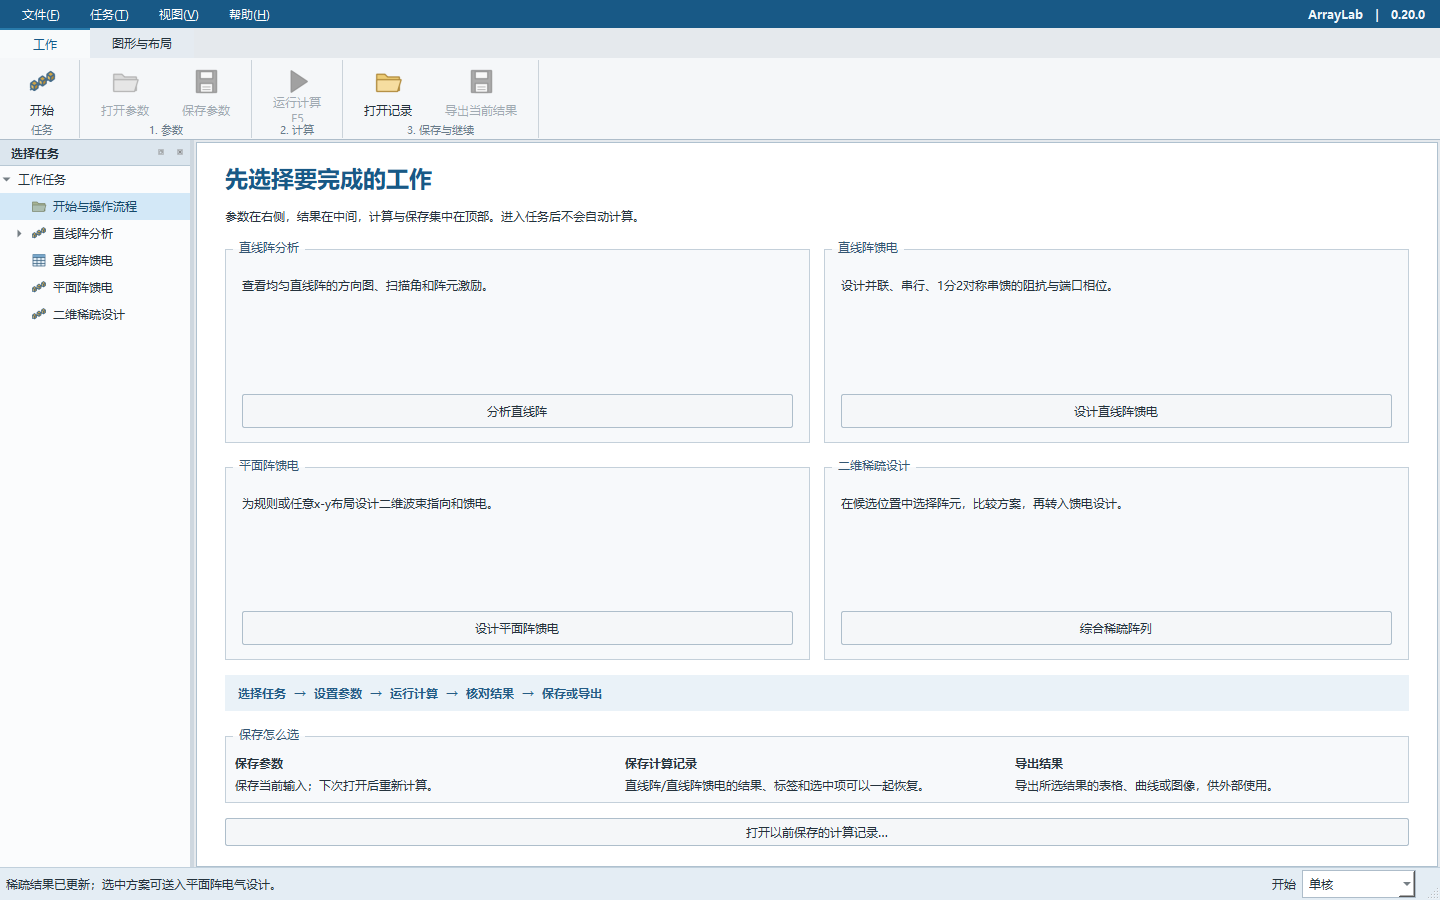
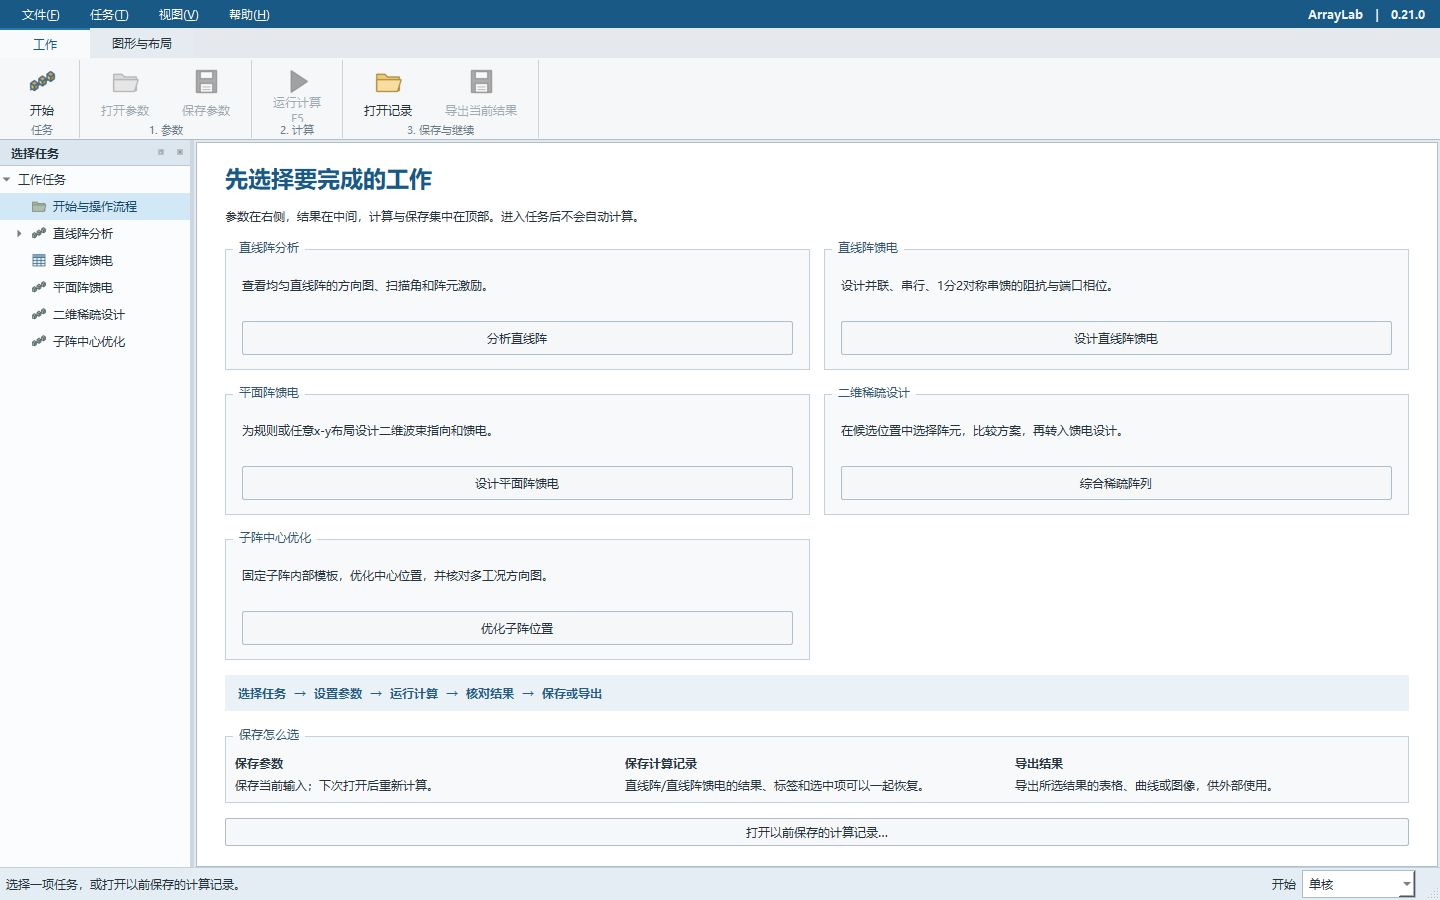
Prepare ArrayLab 0.21.0 release

diff --git a/arraylab/__init__.py b/arraylab/__init__.py
@@ -1,3 +1,3 @@
 """ArrayLab: a deliberately scoped antenna-array workbench."""
 
-__version__ = "0.21.0.dev0"
+__version__ = "0.21.0"

diff --git a/README.md b/README.md
@@ -1,12 +1,12 @@
 # ArrayLab 阵列分析
 
-用于直线阵、平面阵及理想馈电网络电气分析的开源Python工具，提供Qt桌面工作台与无头命令行。当前正式版本0.20.0，原创源码采用MIT许可。[下载正式版](https://github.com/KaysinBIT/arraylab/releases/tag/v0.20.0) · [发行说明](docs/releases/0.20.0.md)。
+用于直线阵、平面阵及理想馈电网络电气分析的开源Python工具，提供Qt桌面工作台与无头命令行。当前正式版本0.21.0，原创源码采用MIT许可。[下载正式版](https://github.com/KaysinBIT/arraylab/releases/tag/v0.21.0) · [发行说明](docs/releases/0.21.0.md)。
 
-当前源码进入 **0.21.0.dev0 开发版**：新增线阵及线阵馈电三维方向图、图下主要指标，以及固定内部模板的连续子阵中心优化。已有正式版0.20.0不包含这些新增功能；开发版与正式版文件分别保留。[方向图与指标](docs/pattern-metrics.md) · [子阵中心优化](docs/subarray-centers.md)。
+**0.21.0 正式版**新增线阵及线阵馈电三维方向图、图下主要指标，以及固定内部模板的连续子阵中心优化。[方向图与指标](docs/pattern-metrics.md) · [子阵中心优化](docs/subarray-centers.md)。
 
-本版按操作顺序组织界面：启动先选任务，右侧设置当前任务的参数，中间核对结果，顶部完成计算、保存和导出。直线阵分析、直线阵馈电、平面阵馈电、二维稀疏设计各有独立入口，进入任务不会自动计算。首次使用请从[五步快速上手](docs/quickstart.md)开始。
+本版按操作顺序组织界面：启动先选任务，右侧设置当前任务的参数，中间核对结果，顶部完成计算、保存和导出。直线阵分析、直线阵馈电、平面阵馈电、二维稀疏设计、子阵中心优化各有独立入口，进入任务不会自动计算。首次使用请从[五步快速上手](docs/quickstart.md)开始。
 
-直线阵与直线阵馈电现在支持保存并重新打开完整计算记录，恢复曲线、标签、选中项及已有结果，不重新计算；也能打开旧版馈电比较文件。保存参数、保存记录、导出结果各有明确入口，详见[计算记录与文件选择](docs/calculation-history.md)。平面阵和二维稀疏设计尚不支持这项完整多次历史恢复。
+直线阵与直线阵馈电现在支持保存并重新打开完整计算记录，恢复曲线、标签、选中项及已有结果，不重新计算；也能打开旧版馈电比较文件。保存参数、保存记录、导出结果各有明确入口，详见[计算记录与文件选择](docs/calculation-history.md)。平面阵、二维稀疏设计和子阵中心优化尚不支持这项完整多次历史恢复。
 
 原有有界多核及无头功能保留：扫描点、平面阵三组方向图、稀疏方案复核可并行。右下角可选自动（最多4路）、单核或2–8路；小任务自动串行。无头使用`--workers`，详见[多核范围与资源控制](docs/multicore.md)。物理尺寸和误差统计继续暂缓。
 
@@ -18,7 +18,7 @@
 
 ## 启动
 
-Windows用户可从[GitHub Release](https://github.com/KaysinBIT/arraylab/releases/tag/v0.20.0)下载`ArrayLab-0.20.0-windows-x64.zip`，完整解压后运行`ArrayLab.exe`，无需安装Python；脚本使用同目录的`ArrayLab-cli.exe`。移动时保留整个目录及`_internal`。
+Windows用户可从[GitHub Release](https://github.com/KaysinBIT/arraylab/releases/tag/v0.21.0)下载`ArrayLab-0.21.0-windows-x64.zip`，完整解压后运行`ArrayLab.exe`，无需安装Python；脚本使用同目录的`ArrayLab-cli.exe`。移动时保留整个目录及`_internal`。
 
 源码用户可在Windows PowerShell中创建环境并启动桌面版：
 
@@ -32,7 +32,7 @@ python -m venv .venv
 
 已记录的本地构建环境为Python 3.14.2 x64；`requirements-lock.txt`保留其依赖版本。其他版本的兼容性以对应测试结果为准。
 
-当前源码构建后的桌面入口为`dist/ArrayLab-0.21.0.dev0/ArrayLab.exe`，无头入口为同目录的`ArrayLab-cli.exe`。项目根目录的“启动 ArrayLab.cmd”也指向本轮开发版。具体系统和验证边界见[验证记录](docs/validation.md)。
+当前源码构建后的桌面入口为`dist/ArrayLab-0.21.0/ArrayLab.exe`，无头入口为同目录的`ArrayLab-cli.exe`。项目根目录的“启动 ArrayLab.cmd”也指向本版。具体系统和验证边界见[验证记录](docs/validation.md)。
 
 ## 无头运行
 
@@ -45,7 +45,7 @@ python -m venv .venv
 构建运行包后的等价入口：
 
 ```powershell
-.\dist\ArrayLab-0.20.0\ArrayLab-cli.exe --elements 20 --scan-deg 30 --output-dir ".\results\run02" --plot both
+.\dist\ArrayLab-0.21.0\ArrayLab-cli.exe --elements 20 --scan-deg 30 --output-dir ".\results\run02" --plot both
 ```
 
 也可运行`python -m arraylab.cli`或安装后的`arraylab-cli`。独立命令行EXE的启动逻辑不包含Qt；源码无头路径在导入任何Qt模块前分派。无需显示器、桌面会话或`QT_QPA_PLATFORM=offscreen`；不会打开图形窗口。当前实际测试环境仍为Windows，未声称完成Linux/macOS验收。
@@ -60,7 +60,7 @@ python -m venv .venv
 | `--config` | UTF-8 JSON分析方案，例如`examples/analysis.json`；兼容旧版`examples/ula.json`，显式命令行参数覆盖文件值 |
 | `--output-dir` | 创建一个新结果目录；已有目录（包括空目录）不覆盖，退出码3 |
 | `--include-phase` | DAT文件增加相位列 |
-| `--plot` | `none`、`rectangular`、`polar`、`both`、`3d`或`all`，默认none；需要同时指定输出目录；开发版增加3d/all |
+| `--plot` | `none`、`rectangular`、`polar`、`both`、`3d`或`all`，默认none；需要同时指定输出目录；支持3d/all |
 | `--help`、`--version` | 查看帮助或版本，不启动界面 |
 | `--workers` | 0自动、1单路、2–8指定上限；用于扫描、平面阵方向图及稀疏复核；普通直线阵计算仍串行 |
 
@@ -69,7 +69,7 @@ python -m venv .venv
 - `summary.json`：参数、模型/坐标约定、方向性、主瓣指向、HPBW、采样数、提示信息和输出文件名。
 - `pattern.dat`：角度°、幅度dB、可选相位°，可在桌面版直接读入。
 - `excitation.csv`：阵元编号、x坐标mm、相对幅度、激励相位°。
-- `sphere-pattern.csv`：开发版额外输出完整球面方向图，默认2°显示网格；该采样不代替指标搜索。
+- `sphere-pattern.csv`：额外输出完整球面方向图，默认2°显示网格；该采样不代替指标搜索。
 - `rectangular.png`和/或`polar.png`：按需生成，使用无交互Agg渲染；显示下限−40 dB不影响数据文件。图中文字使用通用英文字体，避免依赖系统中文字体。
 
 结果先在临时目录内全部生成，成功后再发布为目标目录。不要让多项任务共用一个输出目录；批处理脚本为每次调用分配不同路径即可。配置文件的格式及6项参数见[分析方案约定](docs/analysis-format.md)；未知字段、重复字段、错误类型、未知版本和非有限数值会被拒绝。
@@ -221,7 +221,7 @@ python -m arraylab --headless --sparse planar --input results/sparse01 --index 3
 - Qt交互集成检查：`python -m arraylab --smoke-test tmp/qt-smoke`
 - Windows构建依赖：`python -m pip install ".[desktop]" pyinstaller`
 - Windows独立运行包构建：`python tools/build_release.py`
-- 运行包检查：`dist/ArrayLab-0.20.0/ArrayLab.exe --smoke-test tmp/frozen-smoke`
+- 运行包检查：`dist/ArrayLab-0.21.0/ArrayLab.exe --smoke-test tmp/frozen-smoke`
 - 便携包与源码包：`python tools/package_release.py`（先完成运行包构建）。
 
 检查报告区分数学测试、Qt自动交互、真实桌面操作和打包运行结果。打包运行通过不自动证明在未安装Python的另一台干净电脑上通过。

diff --git a/docs/releases/0.21.0.md b/docs/releases/0.21.0.md
@@ -1,0 +1,48 @@
+# ArrayLab v0.21.0
+
+本版新增子阵中心位置优化、线阵三维方向图及图下主要指标，在同一工作台内完成参数设置、计算、比较和导出。v0.21.0 将已完成的 0.21.0.dev0 功能转为正式发行，计算模型与优化算法保持一致。
+
+## 新增功能
+
+- **子阵中心位置优化。** 在固定子阵数量、内部矩形模板及朝向的条件下，连续调整二维中心坐标，以降低指定扫描角和频率工况下的最差采样副瓣。每个工况均允许子阵公共相位和内部阵元相位随目标方向调整。约束覆盖展开后的实际阵元孔径、最小间距、中心禁布区及子阵模板包络重叠。
+- **子阵结果查看与导出。** 在任务导航选择“子阵中心优化”，查看初始／最终布局、各工况方向图、正交主瓣切面和三维方向图；导出子阵中心、实际阵元及归属、幅相、指标、球面数据和图片。子阵数量与实际阵元数量分别报告。
+- **线阵及馈电三维方向图。** 直线阵分析可在直角、极坐标和三维视图之间切换。直线阵馈电可选择目标激励、网络原始输出或电气模型输出作为三维来源，支持旋转、缩放和图片导出。
+- **方向图下方统一指标。** 根据当前任务和模型提供主瓣／代表峰方向、3 dB 半功率宽度、正交大圆切面宽度、指向偏差、峰值方向性 D 及副瓣电平 PSL。摘要随所选记录、激励来源和工况更新，保存图片或复制图形时一起保留；缺少边界或模型信息时显示不可用及原因。
+- **无头计算与有界多核。** 新增子阵无头入口，支持参数复算、独立搜索和结果导出；线阵无头输出增加三维 PNG 与完整球面 CSV。子阵多个独立搜索使用共享有界线程池，保留串行模式，并限制底层数值库线程，避免重复占用资源。
+
+操作和指标定义见[子阵中心位置优化](https://github.com/KaysinBIT/arraylab/blob/v0.21.0/docs/subarray-centers.md)与[方向图、三维显示与主要指标](https://github.com/KaysinBIT/arraylab/blob/v0.21.0/docs/pattern-metrics.md)。
+
+## 改进与修复
+
+- 切换线阵历史记录或馈电激励来源时，三维图与指标均由保存的计算快照派生，不使用尚未运行的新输入，也不重新抽取随机误差。
+- 图下摘要支持窄窗口自动折行；线阵和平面阵的扫描单点方向图也显示切面宽度与 PSL，扫描报告中的目标方向 D 保留原有名称。
+- 子阵取消操作保留上一次成功结果；结果导出采用暂存后提交方式，避免将未完成文件当成结果。
+- 统一子阵命令行的中文 JSON 编码为 UTF-8，修复 Windows 输出重定向时的编码问题。
+- 将子阵预计算和最终复核纳入同一线程资源控制，阶段结束后恢复原有底层线程设置。
+
+## 使用与限制
+
+下载 `ArrayLab-0.21.0-windows-x64.zip`，完整解压后运行 `ArrayLab.exe`；保留整个目录及 `_internal`。源码与示例见 `ArrayLab-0.21.0-source.zip`，两个 ZIP 的校验值见 `SHA256SUMS-0.21.0.txt`。
+
+桌面任务按“选择任务 → 设置参数 → 运行 → 核对结果 → 保存或导出”操作。脚本及无人值守运行使用同目录的 `ArrayLab-cli.exe`，每次使用尚不存在的输出目录：
+
+```powershell
+.\ArrayLab-cli.exe --elements 8 --scan-deg 20 --output-dir ".\results\linear3d" --plot all
+.\ArrayLab-cli.exe subarray --write-example ".\my-subarray.json"
+.\ArrayLab-cli.exe subarray --config ".\my-subarray.json" --output ".\results\subarray01" --plot all --workers 0
+```
+
+- **模型范围。** 子阵初版为相同矩形模板、固定朝向、等幅各向同性阵元；支持 1–64 个子阵、总计不超过 512 个实际阵元，以及最多 25 个角度与频率组合。没有重新划分子阵或优化内部几何，不据此推定控制端口数或 RF 链数。
+- **指标口径。** 方向性 D 不等于包含损耗的增益 G。当前缺少辐射效率与完整损耗／失配输入，增益显示“未计算（缺效率）”。三维颜色表示相对场幅 dB，不是 dBi 增益。
+- **空间波束。** 各向同性线阵的阵因子绕阵列轴对称；平面点阵上下半空间互为镜像。代表峰和局部切面宽度不承诺存在唯一空间波束。只有二维曲线的数据不能恢复三维场或全空间方向性；非各向同性稀疏单元仅有前半球响应时，不补造背面数据计算 D。
+- **优化与副瓣。** 子阵 PSL 使用用户指定的 u/v 主瓣排除区；优化和加密、错位复核均属于有限采样，不保证连续域最坏峰或全局最优。复核结果比初始布局更差时保留初始布局，并在报告中标记。
+- **记录范围。** 完整多次历史恢复仍限于直线阵分析与直线阵馈电；平面阵、二维稀疏与子阵优化使用各自的参数保存和结果导出。
+- **继续暂缓。** 馈线物理尺寸、实体基板／封装、互耦、全波仿真和误差统计不在本版新增范围内。
+
+## 验证说明
+
+验证记录分别保留 0.21.0.dev0 的功能回归基线与 0.21.0 正式发行包的发布前验收，不将继承的开发版结果标为本轮重新运行。具体检查范围和结果见[验证记录与边界](https://github.com/KaysinBIT/arraylab/blob/v0.21.0/docs/validation.md)。
+
+目标验收环境为本机 Windows 10 Enterprise LTSC Build 19044，不代表 Windows 11、干净系统或其他操作系统的完整验收。软件检查均安排在推送前；推送后仅核对 GitHub 标签、发布状态和附件完整性，不再运行测试。
+
+原创源码采用 MIT 许可；随包第三方依赖保留各自许可。

diff --git a/docs/validation.md b/docs/validation.md
@@ -1,5 +1,23 @@
 # 验证记录与边界
 
+## 0.21.0正式发行：发布前验证
+
+本次将已完成的0.21.0.dev0转为正式发行。应用代码只更新版本号，启动入口、下载链接与发行文档同步更新；计算算法、科学配置和界面逻辑保持不变。
+
+本次版本、无头入口、参数文件和中文输出的54项针对性源码检查通过。开发阶段的497项完整回归与42项子检查、104项针对性回归及最后28项子阵/编码修复检查继续作为已有基线，不将它们标为本轮重新运行。
+
+正式Windows包使用独立构建目录，并从实际ZIP解压到新的中文/空格路径完成验收：
+
+| 本次正式包检查 | 结果 |
+| --- | --- |
+| 冻结项目代码 | 60个模块与当前源码编译结果一致 |
+| 解压包完整性 | 1217个文件逐项SHA-256与构建产物一致 |
+| 桌面EXE | 583项真实Windows Qt检查通过 |
+| 无头EXE | 24项检查通过；使用系统PATH、无效Qt平台和独立临时目录 |
+| 关键路径 | 三维图与图下指标、记录恢复、子阵计算/取消、中文输出、参数复算、串并行及GUI/CLI结果一致 |
+
+本机为Windows 10 Enterprise LTSC Build 19044，不代表Windows 11、干净系统或其他操作系统验收。记录位于本地`tmp/release-0210-tests-88e9f0e0`和`tmp/release-0210-accepted-e69d7d2d`；最终验收后仅更新文档与截图，并确认桌面/无头程序摘要未变。全部软件验证在GitHub推送前完成，推送后只核对标签、Latest和附件交付。
+
 ## 0.21.0.dev0：三维指标与连续子阵中心
 
 本轮确认的子阵范围为固定内部矩形模板与朝向、固定子阵数，优化连续二维中心位置；内部阵元可随各角度/频率工况理想调相。开发版与已发布0.20.0分开保留。
@@ -20,7 +38,7 @@
 
 源码证据位于本地`tmp/next-stage-tests-545d1eaa`、`tmp/next-stage-final-tests-731d6b44`与`tmp/next-stage-source-qt-fed66f34`。这些本机结果和运行数据不上传源码仓库。
 
-最终独立运行包证据为`tmp/next-stage-accepted-cb183d40/report.json`及同目录`integrity.json`。首轮冻结验收因子阵中文输出编码失败而停止，不计作通过；修复后重新构建、核对源码、解压并完整通过。此前构建缓存一致性检查也拦截了旧扫描绘图模块，最终60模块核对通过。验证均在源码推送前完成，推送后不运行测试。当前为开发版，本轮不覆盖0.20.0正式Release。
+最终独立运行包证据为`tmp/next-stage-accepted-cb183d40/report.json`及同目录`integrity.json`。首轮冻结验收因子阵中文输出编码失败而停止，不计作通过；修复后重新构建、核对源码、解压并完整通过。此前构建缓存一致性检查也拦截了旧扫描绘图模块，最终60模块核对通过。验证均在源码推送前完成，推送后不运行测试。该开发阶段未覆盖0.20.0正式Release。
 
 图下宽度与PSL保留各自计算口径；缺效率不报告增益。非各向同性稀疏单元的接口只有前半球，不补背面推算D。子阵优化与加密错位复核均是有限采样，提供分辨率提示，不宣称全局最优或连续域最坏峰保证。无头支持全部新增功能，不需要Qt。物理尺寸与误差统计继续暂缓。
 

diff --git a/docs/quickstart.md b/docs/quickstart.md
@@ -1,6 +1,6 @@
 # 五步快速上手
 
-适用于当前源码0.21.0.dev0；原有流程兼容0.20.0。启动后先选任务；参数在右侧，结果在中间，计算、保存与导出集中在顶部。进入任务不会自动计算。
+适用于ArrayLab 0.21.0。启动后先选任务；参数在右侧，结果在中间，计算、保存与导出集中在顶部。进入任务不会自动计算。
 
 ![开始页与操作流程](images/workflow-home.png)
 
@@ -43,7 +43,7 @@
 
 外部方向图从“文件 → 读入外部曲线（直线阵）”导入，支持角度、幅度及可选相位列。外部曲线不会被当成本软件算出的阵列结果，也不会由单个切面推断方向性。
 
-开发版中，“显示方式”可切换三维方向图，鼠标拖动旋转。方向图下方显示主瓣、3 dB宽度、方向性和副瓣等指标；增益缺少效率数据时明确标为未计算。纯二维外部曲线无法恢复三维图。馈电方向图可选择目标、原始网络或实际输出；三维图只展示当前所选激励。详见[方向图与指标](pattern-metrics.md)。
+本版中，“显示方式”可切换三维方向图，鼠标拖动旋转。方向图下方显示主瓣、3 dB宽度、方向性和副瓣等指标；增益缺少效率数据时明确标为未计算。纯二维外部曲线无法恢复三维图。馈电方向图可选择目标、原始网络或实际输出；三维图只展示当前所选激励。详见[方向图与指标](pattern-metrics.md)。
 
 “子阵中心优化”可直接使用默认参数运行，再在布局、二维方向图、主瓣切面和三维图之间切换。角度/频率列表不为空时替代单工况输入；每个工况独立理想调相。该任务支持保存参数及导出完整结果，当前没有跨进程结果载入界面。详见[子阵操作与模型边界](subarray-centers.md)。
 

diff --git a/ROADMAP.md b/ROADMAP.md
@@ -1,8 +1,8 @@
 # 任务计划与完成状态
 
-当前源码为ArrayLab 0.21.0.dev0；正式Release保留0.20.0。本轮实现三维方向图、统一图下指标及子阵中心位置优化。误差统计和馈线物理尺寸仍暂缓。
+当前正式版本为ArrayLab 0.21.0，包含三维方向图、统一图下指标及子阵中心位置优化；0.20.0旧版保留。本次从已验证的开发版转为正式版，不修改计算算法。误差统计和馈线物理尺寸仍暂缓。
 
-## 本轮开发：方向图指标与子阵中心（0.21.0.dev0）
+## 正式发布：方向图指标与子阵中心（0.21.0）
 
 | 编号 | 内容 | 边界 |
 | --- | --- | --- |
@@ -10,6 +10,7 @@
 | P27 | 图下主瓣、3 dB宽度、PSL、方向性与增益状态，保存图像保留摘要 | 切面与空间指标区别标识；缺效率不报告增益；前半球单元不补背面求D |
 | P28 | 固定内部矩形模板、连续二维子阵中心优化；多扫描/频率理想调相；有界多起点并行 | 固定子阵数量与朝向、等幅；有限网格最坏副瓣估计，非全局最优保证 |
 | P29 | 原生子阵任务入口、后台运行/取消、参数保存恢复、JSON/CSV/图形导出 | 完整多次历史恢复仍只覆盖直线阵与直线阵馈电 |
+| P30 | 0.21.0正式发行，Windows便携包、源码包、SHA-256校验文件 | 发布前重新验证版本与独立运行包；推送后只核对Release、Latest、标签与附件交付 |
 
 下一步可在本轮结果基础上定义子阵间馈电与子阵内部馈电的两层接口、端口数量及实际调相器配置；这部分尚未作为已实现功能。后续亦可讨论异构/旋转子阵及子阵数量优化。物理尺寸、误差统计继续暂缓。
 
